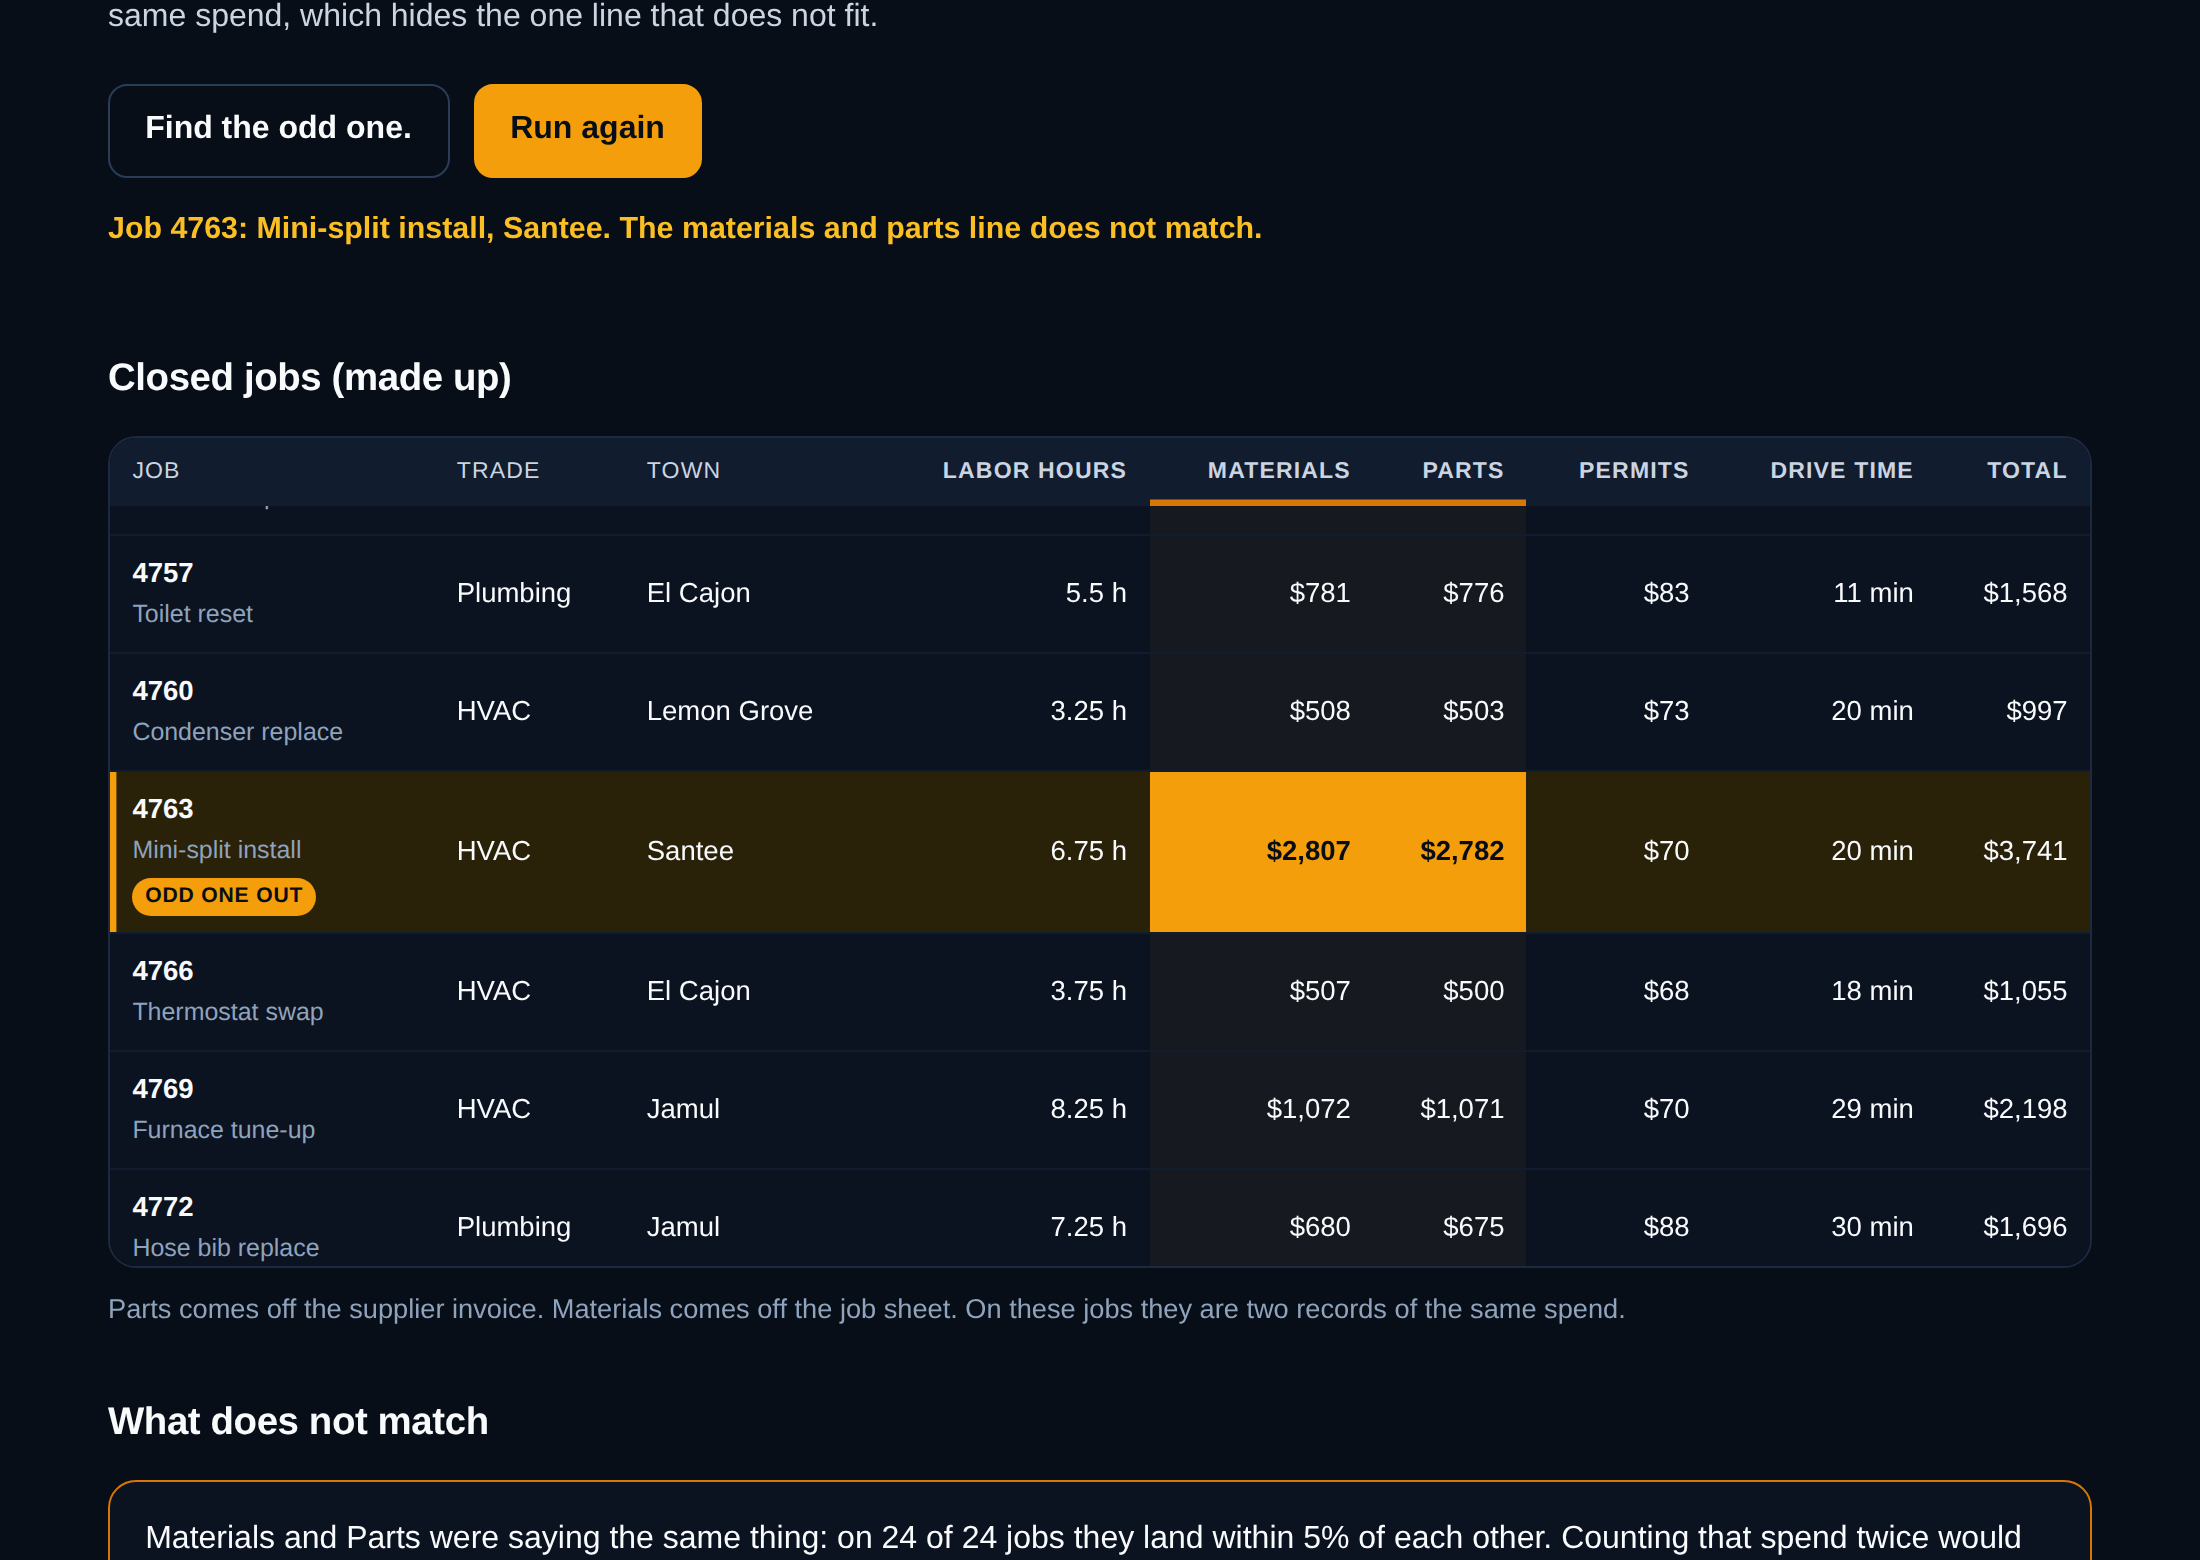
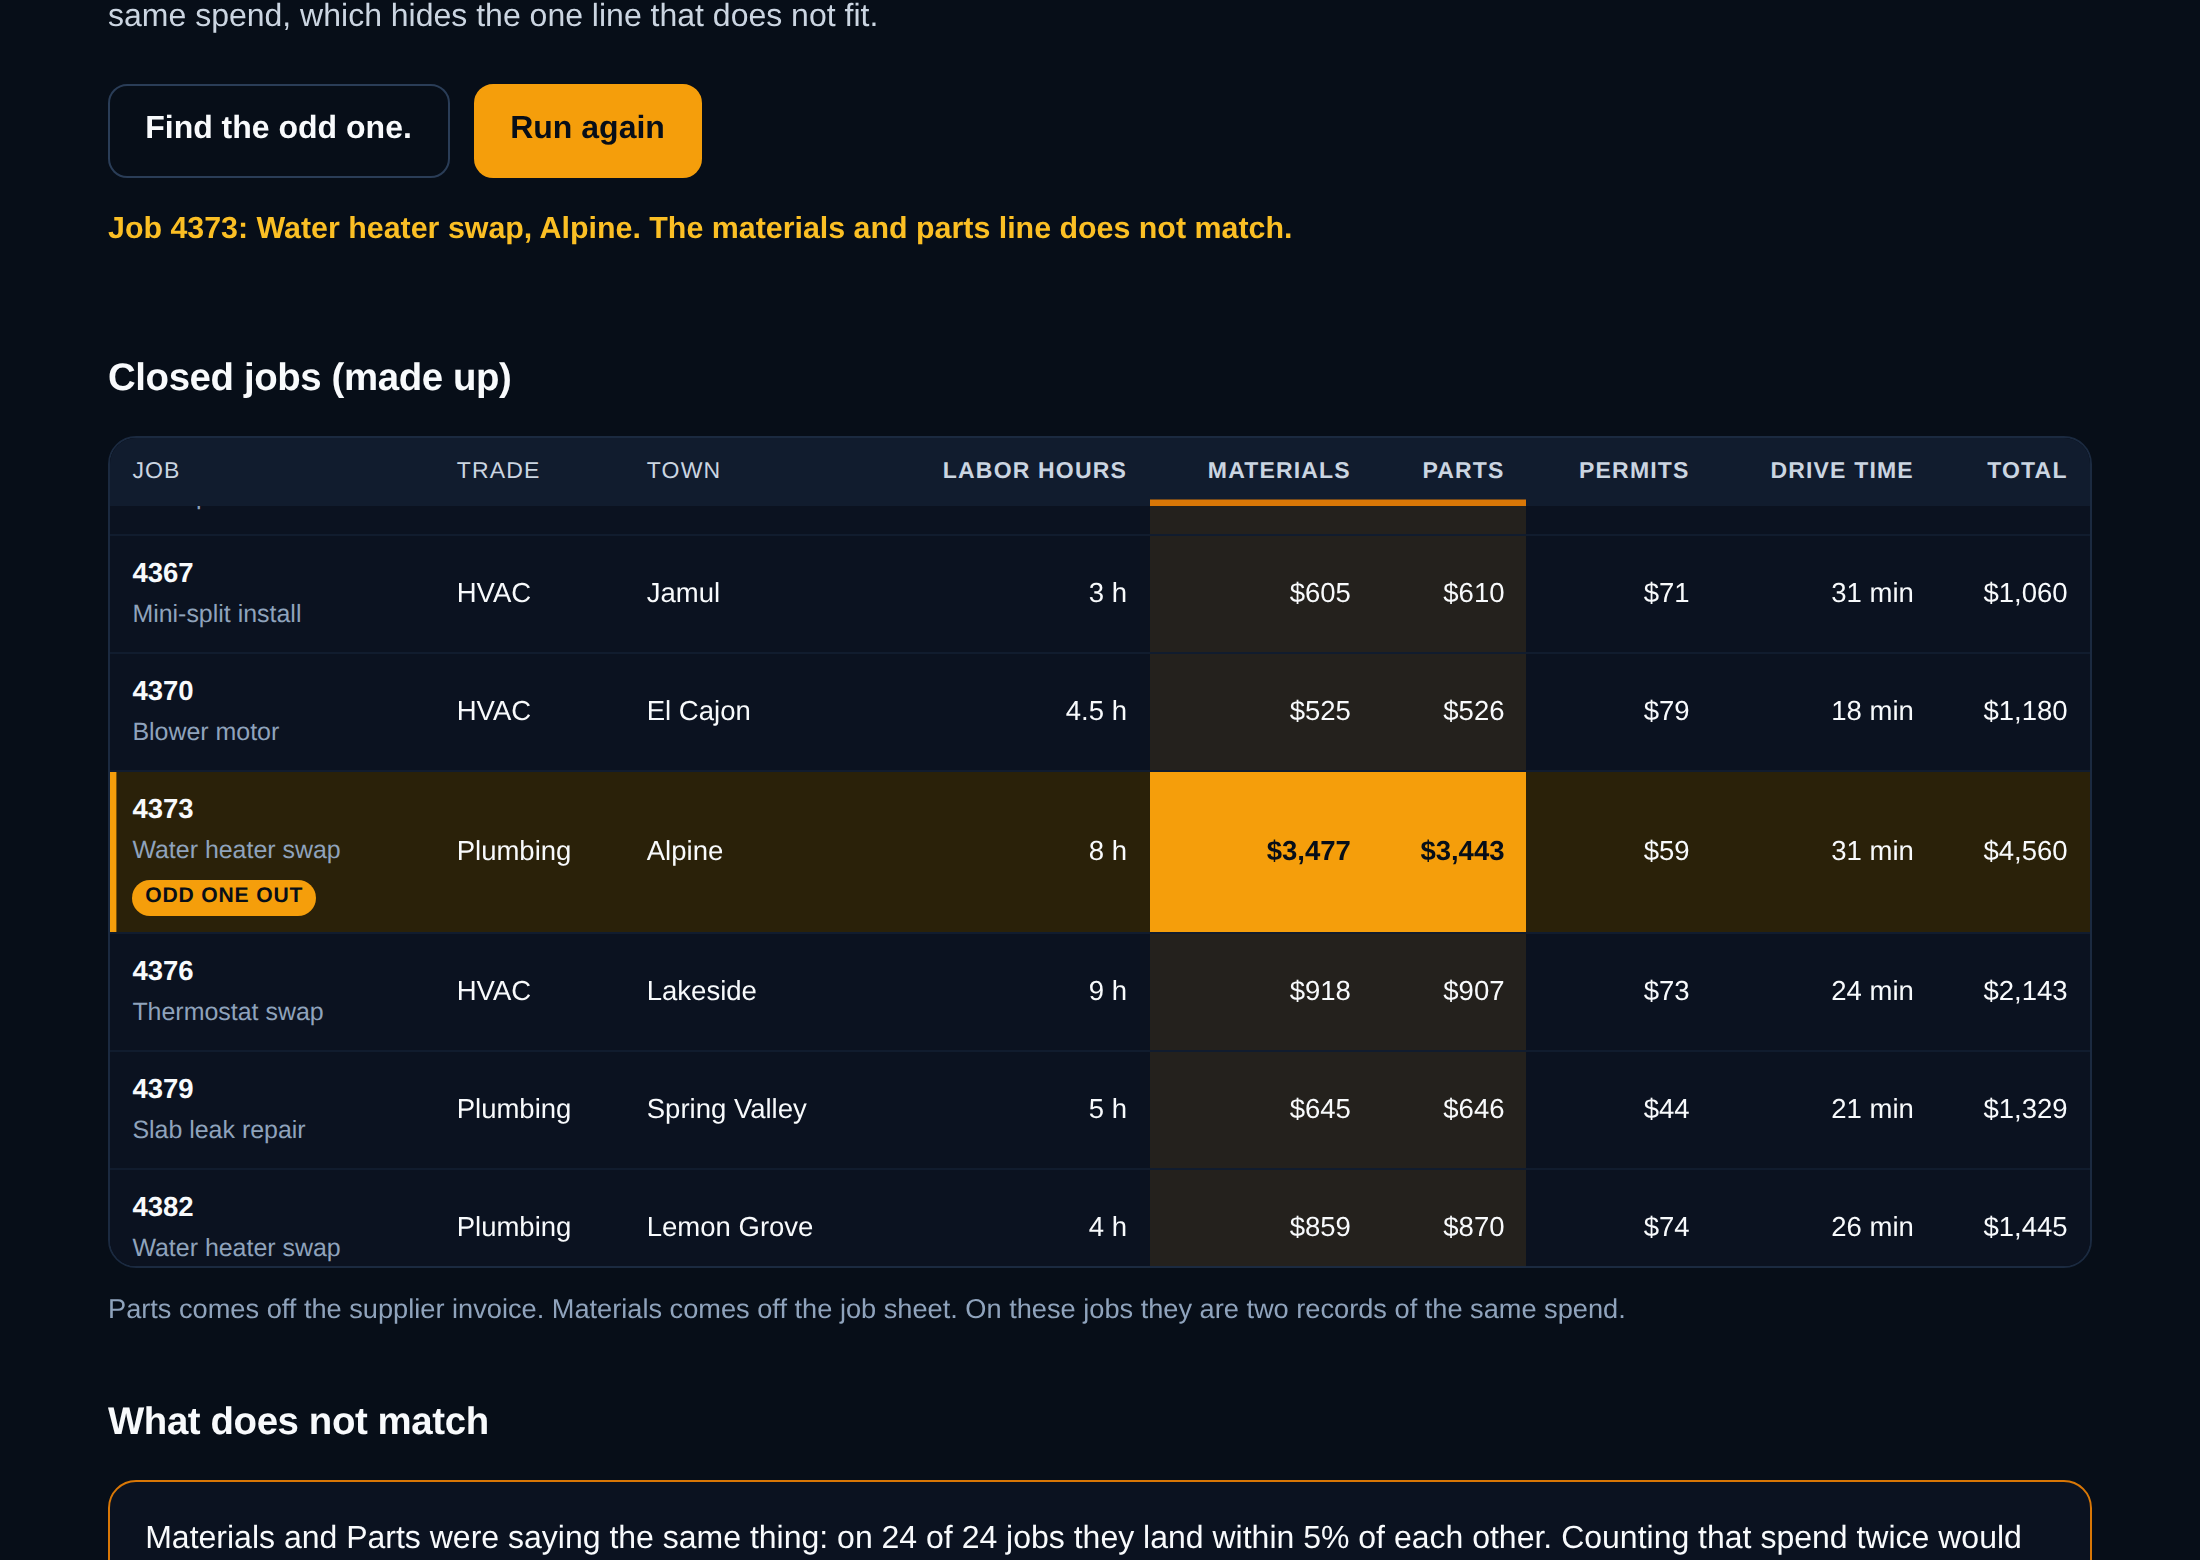
Make the paired columns visible, and tighten the policy
Housekeeping pass over the defects the README audit turned up but did not
need to touch at the time.

The folded pair is marked in words as well as colour. main.ts already
argues that a colour-only highlight is no highlight for anyone who cannot
see the colour, and gives the odd row the text "Odd one out" on that
basis, but the pair marking had no such fallback. Its cell tint was also
5% alpha over a dark row, which is close to invisible for everyone, so
the band is now readable and the header carries a hidden line naming what
the marking means.

The odd row takes focus when it is revealed. Scrolling it into view moves
the page for someone who can see it and nobody else.

img-src drops the data: allowance. Nothing builds a data URI and
assetsInlineLimit is 0, so Vite cannot emit one either.

The charset declaration moves to the top of head, from byte 1135. That
was past the 1024-byte sniffing window the HTML spec requires, so it was
a real violation rather than a tight margin. Harmless in practice here,
since no byte in the page or the bundle is above 127, but it cost nothing
to fix. The comment claiming the policy is the first element in head now
says what it does: ahead of everything that loads, behind only the
charset.

The query whitelist is one read instead of a loop. It walked every
parameter and skipped the ones not on the list, which looked like a guard
and was not: no parameter value reaches the DOM either way, and the walk
[…]

diff --git a/src/main.ts b/src/main.ts
@@ -160,6 +160,10 @@ function clearHighlight(): void {
   }
   for (const th of Array.from(els.head.rows[0]?.cells ?? [])) {
     th.classList.remove("is-paired");
+    const note = th.querySelector(".visually-hidden");
+    if (note !== null) {
+      note.remove();
+    }
   }
 }
 
@@ -206,6 +210,13 @@ function highlight(finding: Finding): void {
   for (const th of Array.from(els.head.rows[0]?.cells ?? [])) {
     if (th.dataset.key !== undefined && pairKeys.has(th.dataset.key)) {
       th.classList.add("is-paired");
+      // The odd row says "Odd one out" in words rather than relying on the
+      // amber alone. This marking had no such fallback, and its cell tint is
+      // 5% alpha over a dark row, which is close to invisible for everyone.
+      const note = document.createElement("span");
+      note.className = "visually-hidden";
+      note.textContent = " (counted once, with the other column it matches)";
+      th.appendChild(note);
     }
   }
 
@@ -248,6 +259,13 @@ function revealRow(jobId: string): void {
   }
   const behavior: ScrollBehavior = reducedMotion() ? "auto" : "smooth";
   row.scrollIntoView({ behavior, block: "center" });
+  // Scrolling moves the page for someone who can see it and nobody else. The
+  // row header takes focus so a keyboard lands on the evidence too.
+  const header = row.querySelector("th");
+  if (header !== null) {
+    header.setAttribute("tabindex", "-1");
+    header.focus({ preventScroll: true });
+  }
 }
 
 /** Run the detector on the book that is already drawn, and report it. */
@@ -297,19 +315,19 @@ function fail(error: unknown): void {
 /**
  * Pick the starting seed.
  *
- * `?fail=1` is a test hook that forces the error path, so the failure state can
- * be checked without breaking the build on purpose. It is matched against a
- * whitelist and never printed back onto the page.
+ * `?fail=1` is a test hook that forces the error path on first load, so the
+ * failure state can be checked without breaking the build on purpose. Pressing
+ * either button afterwards starts an ordinary run: the hook is not a stuck
+ * mode. It is matched against a whitelist and never printed back onto the page.
  */
 function startingSeed(): number {
   const params = new URLSearchParams(window.location.search);
-  for (const key of params.keys()) {
-    if (!ALLOWED_PARAMS.has(key)) {
-      continue;
-    }
-    if (key === "fail" && params.get("fail") === "1") {
-      return 0;
-    }
+  // One read of one whitelisted name. This used to walk every parameter and
+  // skip the ones not on the list, which looked like a guard and was not: no
+  // parameter value reaches the DOM either way, and the walk still ended in
+  // this same test.
+  if (ALLOWED_PARAMS.has("fail") && params.get("fail") === "1") {
+    return 0;
   }
   // A seed from the clock, so two visitors do not compare notes on the same
   // book and conclude the answer is hard-coded.

diff --git a/index.html b/index.html
@@ -1,11 +1,16 @@
 <!doctype html>
 <html lang="en">
   <head>
+    <meta charset="UTF-8" />
     <!--
-      First element in head on purpose: a policy that arrives after the first
-      script tag has already lost. default-src 'none' means anything not named
-      below is refused, so a tracker or a CDN link pasted in later fails loudly
-      in the console instead of quietly working.
+      Ahead of everything that loads, behind only the charset: a policy that
+      arrives after the first script tag has already lost. The charset goes
+      first because it has to land inside the first 1024 bytes to be sniffed,
+      and this comment is long enough to push it past that.
+
+      default-src 'none' means anything not named below is refused, so a
+      tracker or a CDN link pasted in later fails loudly in the console
+      instead of quietly working.
 
       connect-src 'none' is the one that matters most here. This page talks to
       nothing. The jobs are generated in the browser and the arithmetic happens
@@ -18,10 +23,9 @@
     -->
     <meta
       http-equiv="Content-Security-Policy"
-      content="default-src 'none'; script-src 'self'; style-src 'self'; img-src 'self' data:; connect-src 'none'; font-src 'none'; object-src 'none'; base-uri 'none'; form-action 'none'"
+      content="default-src 'none'; script-src 'self'; style-src 'self'; img-src 'self'; connect-src 'none'; font-src 'none'; object-src 'none'; base-uri 'none'; form-action 'none'"
     />
     <meta name="referrer" content="no-referrer" />
-    <meta charset="UTF-8" />
     <meta name="viewport" content="width=device-width, initial-scale=1" />
     <meta name="theme-color" content="#070E18" />
 

diff --git a/src/styles.css b/src/styles.css
@@ -374,7 +374,16 @@ th.is-paired {
 }
 
 td.is-paired {
-  background: rgba(245, 158, 11, 0.05);
+  /* Was 0.05, which is invisible on this background and therefore not a
+     marking at all. The header also names the pair in words for anyone who
+     cannot see the band. */
+  background: rgba(245, 158, 11, 0.11);
+}
+
+/* The odd row's header takes focus when the row is revealed. */
+table.jobs th[scope="row"]:focus-visible {
+  outline: 2px solid var(--ember-400);
+  outline-offset: -2px;
 }
 
 .table-note,
